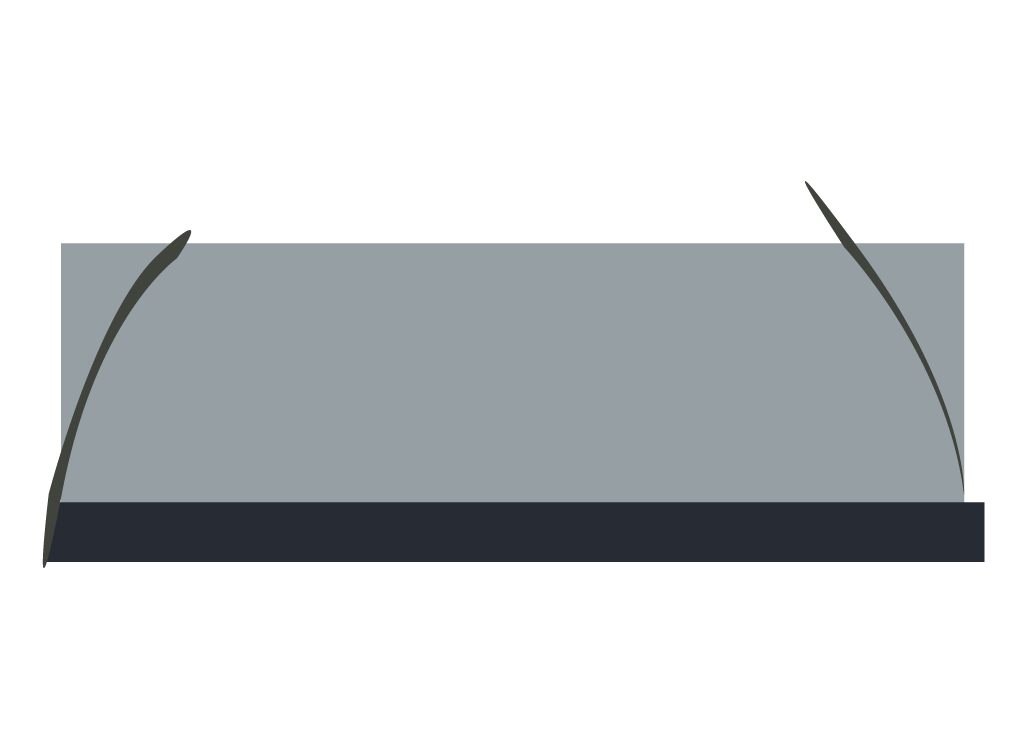
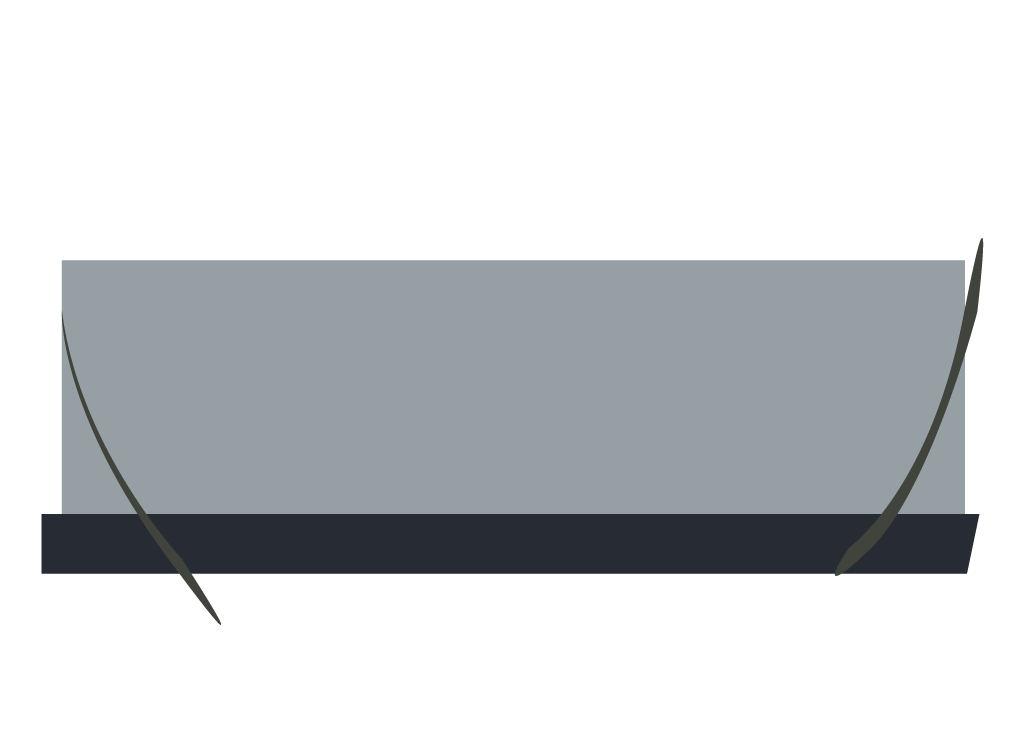
apply common sense

Changed region(s): [[0.0312, 0.2483, 0.9678, 0.8381]]

diff --git a/app/views/main.html b/app/views/main.html
@@ -1,15 +1,21 @@
 <div class="mixdoge">
 
-<h1>
-  <span>m</span>
-  <span>i</span>
-  <span>x</span>
-  <span>d</span>
-  <span>o</span>
-  <span>g</span>
-  <span>e</span>
-</h1>
-<a href="#" ng-click="logout()">Logout</a>
+<header class="clearfix">
+  <div class="pull-left">
+    <h1>
+      <span>m</span>
+      <span>i</span>
+      <span>x</span>
+      <span>d</span>
+      <span>o</span>
+      <span>g</span>
+      <span>e</span>
+    </h1>
+  </div>
+  <div class="pull-right">
+    <a href="#" ng-click="logout()">Logout</a>
+  </div>
+</header>
 
 <audio data-player-control="audioPlayer" data-playlist="playlist" audio-player>
 </audio>
@@ -43,23 +49,24 @@
       Next
     </button>
   </div>
+  <div class="progress">
+    <div class="progress-bar"
+         role="progressbar"
+         aria-valuemin="0"
+         aria-valuemax="100"
+         ng-style="{ width: audioPlayer.currentTime*100/audioPlayer.duration + '%' }"
+         style="width: 100.00000000000001%; height: 40px">
+      <span class="sr-only ng-binding" style="height: 40px">100.00000000000001% Complete</span>
+    </div>
+    <div class="time" ng-show="audioPlayer.formatTime" style="height: 40px">
+      <span class="ng-binding">{{ audioPlayer.currentTime | number:2 }}</span>
+      <b>/</b>
+      <span class="ng-binding">{{ audioPlayer.duration | number:2 }}</span>
+    </div>
+  </div>
 </div>
 
-<div class="progress">
-  <div class="progress-bar"
-       role="progressbar"
-       aria-valuemin="0"
-       aria-valuemax="100"
-       ng-style="{ width: audioPlayer.currentTime*100/audioPlayer.duration + '%' }"
-       style="width: 100.00000000000001%; height: 40px">
-    <span class="sr-only ng-binding" style="height: 40px">100.00000000000001% Complete</span>
-  </div>
-  <div class="time" ng-show="audioPlayer.formatTime" style="height: 40px">
-    <span class="ng-binding">{{ audioPlayer.currentTime | number:2 }}</span>
-    <b>/</b>
-    <span class="ng-binding">{{ audioPlayer.duration | number:2 }}</span>
-  </div>
-</div>
+<div class="playlist">
 
 <form role="form">
   <div class="form-group">
@@ -99,6 +106,8 @@
       </li>
     </ul>
   </div>
+</div>
+
 </div>
 
 <script type="text/ng-template" id="add-soundcloud.html">

diff --git a/app/styles/main.css b/app/styles/main.css
@@ -14,17 +14,28 @@ body, h1, h2, h3, h4, h5 {
   margin: 0 auto;
 }
 
-.mixdoge h1 {
-  letter-spacing: -0.2em;
+header {
+  margin-bottom: 20px;
 }
 
-.mixdoge h1 span:nth-child(1) { color: #f90; }
-.mixdoge h1 span:nth-child(2) { color: #f0f; }
-.mixdoge h1 span:nth-child(3) { color: #09f; }
-.mixdoge h1 span:nth-child(4) { color: #0f3; }
-.mixdoge h1 span:nth-child(5) { color: #99f; }
-.mixdoge h1 span:nth-child(6) { color: #00f; }
-.mixdoge h1 span:nth-child(7) { color: #90f; }
+header h1 {
+  letter-spacing: -0.2em;
+  margin: 0;
+  line-height: 1;
+}
+
+header a {
+  line-height: 36px;
+  display: inline-block;
+}
+
+header h1 span:nth-child(1) { color: #f90; }
+header h1 span:nth-child(2) { color: #f0f; }
+header h1 span:nth-child(3) { color: #09f; }
+header h1 span:nth-child(4) { color: #0f3; }
+header h1 span:nth-child(5) { color: #99f; }
+header h1 span:nth-child(6) { color: #00f; }
+header h1 span:nth-child(7) { color: #90f; }
 
 /* Walkman */
 .walkman {
@@ -75,12 +86,12 @@ body, h1, h2, h3, h4, h5 {
 }
 .tape-doge-1 {
   width: 184px;
-  top: 95px;
+  top: 125px;
   left: 60px;
 }
 .tape-doge-2 {
   width: 176px;
-  top: 100px;
+  top: 130px;
   right: 60px;
 }
 .walkman-controls {
@@ -96,13 +107,25 @@ body, h1, h2, h3, h4, h5 {
   margin-left: 10px;
 }
 .progress {
-  margin: 20px 0;
-  color: #f0f;
+  position: absolute;
+  left: 40px;
+  right: 40px;
+  top: 50px;
+  color: #5c646c;
   box-shadow: none;
-  background-color: #fcf;
+  background-color: #bcc4c4;
+  border: 1px #5c646c solid;
+  border-radius: 0;
 }
 .progress-bar {
-  background-color: #f0f;
+  background-color: #5c646c;
+}
+
+.playlist {
+  background: white;
+  border-radius: 6px;
+  padding: 10px;
+  margin: 20px 0;
 }
 .add {
   margin: 20px 0;
